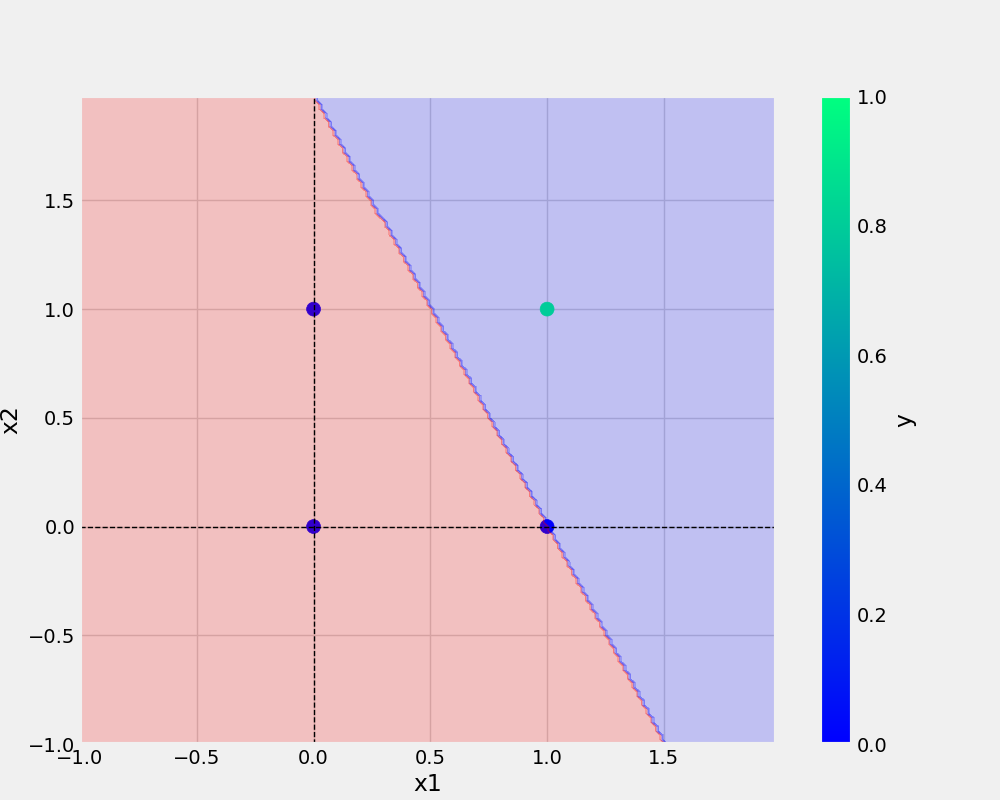
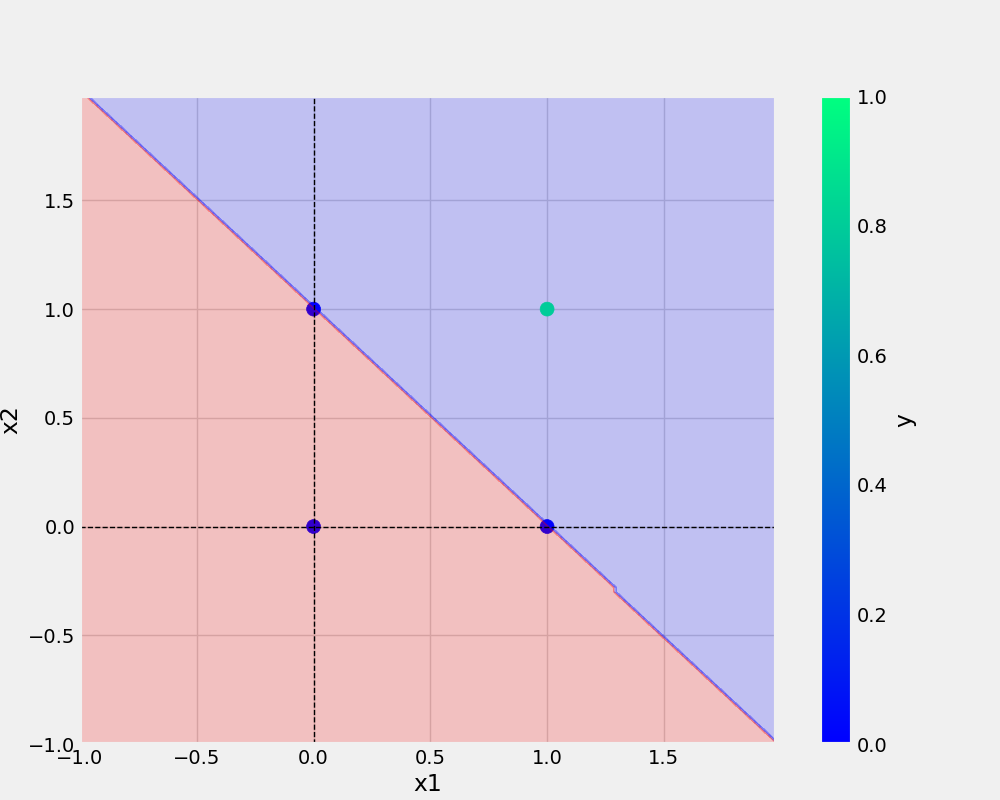
and.py and or.py are modified as and2.py and or2.py

Changed region(s): [[0.093, 0.125, 0.775, 0.9375]]

diff --git a/and2.py b/and2.py
@@ -1,0 +1,42 @@
+import numpy as np
+import pandas as pd
+#from Neuron.utils.all_utils import save_model, save_plot
+from utils.model import Perceptron
+from utils.all_utils import prepare_data, save_plot, save_model
+
+def main(data, eta, epochs, filename, plotFileName):
+    
+
+    df = pd.DataFrame(data)
+
+    print(df)
+
+
+    X,y = prepare_data(df)
+
+    
+
+    model = Perceptron(eta=eta, epochs=epochs)
+    model.fit(X, y)
+
+    _ = model.total_loss()
+
+    save_model(model, filename=filename)
+    save_plot(df, plotFileName, model)
+
+
+if __name__ == '__main__':   #<< entery point in
+
+    AND = {
+        "x1": [0,0,1,1],
+        "x2": [0,1,0,1],
+        "y": [0,0,0,1],
+    }
+
+    ETA = 0.3 # 0 and 1
+    EPOCHS = 10
+
+
+
+    main(data=AND, eta=ETA, epochs=EPOCHS,filename="and2.model", plotFileName="and2.png")
+

diff --git a/or2.py b/or2.py
@@ -1,0 +1,43 @@
+import pandas as pd
+
+from utils.model import Perceptron
+from utils.all_utils import prepare_data, save_model, save_plot
+
+
+def main(data, eta, epochs, filename, plotFileName):
+
+   
+
+    df = pd.DataFrame(data)
+
+    df
+
+
+    X,y = prepare_data(df)
+
+    
+
+    model_OR = Perceptron(eta=eta, epochs=epochs)
+    model_OR.fit(X, y)
+
+    _ = model_OR.total_loss()
+
+
+    save_model(model_OR, filename=filename)
+    save_plot(df, plotFileName, model_OR)
+
+
+if __name__ == '__main__':
+
+
+    OR = {
+        "x1": [0,0,1,1],
+        "x2": [0,1,0,1],
+        "y": [0,1,1,1],
+    }
+
+    ETA = 0.3 # 0 and 1
+    EPOCHS = 10
+
+
+    main(data=OR, eta=ETA, epochs=EPOCHS, filename="or2.model",plotFileName="or2.png")
